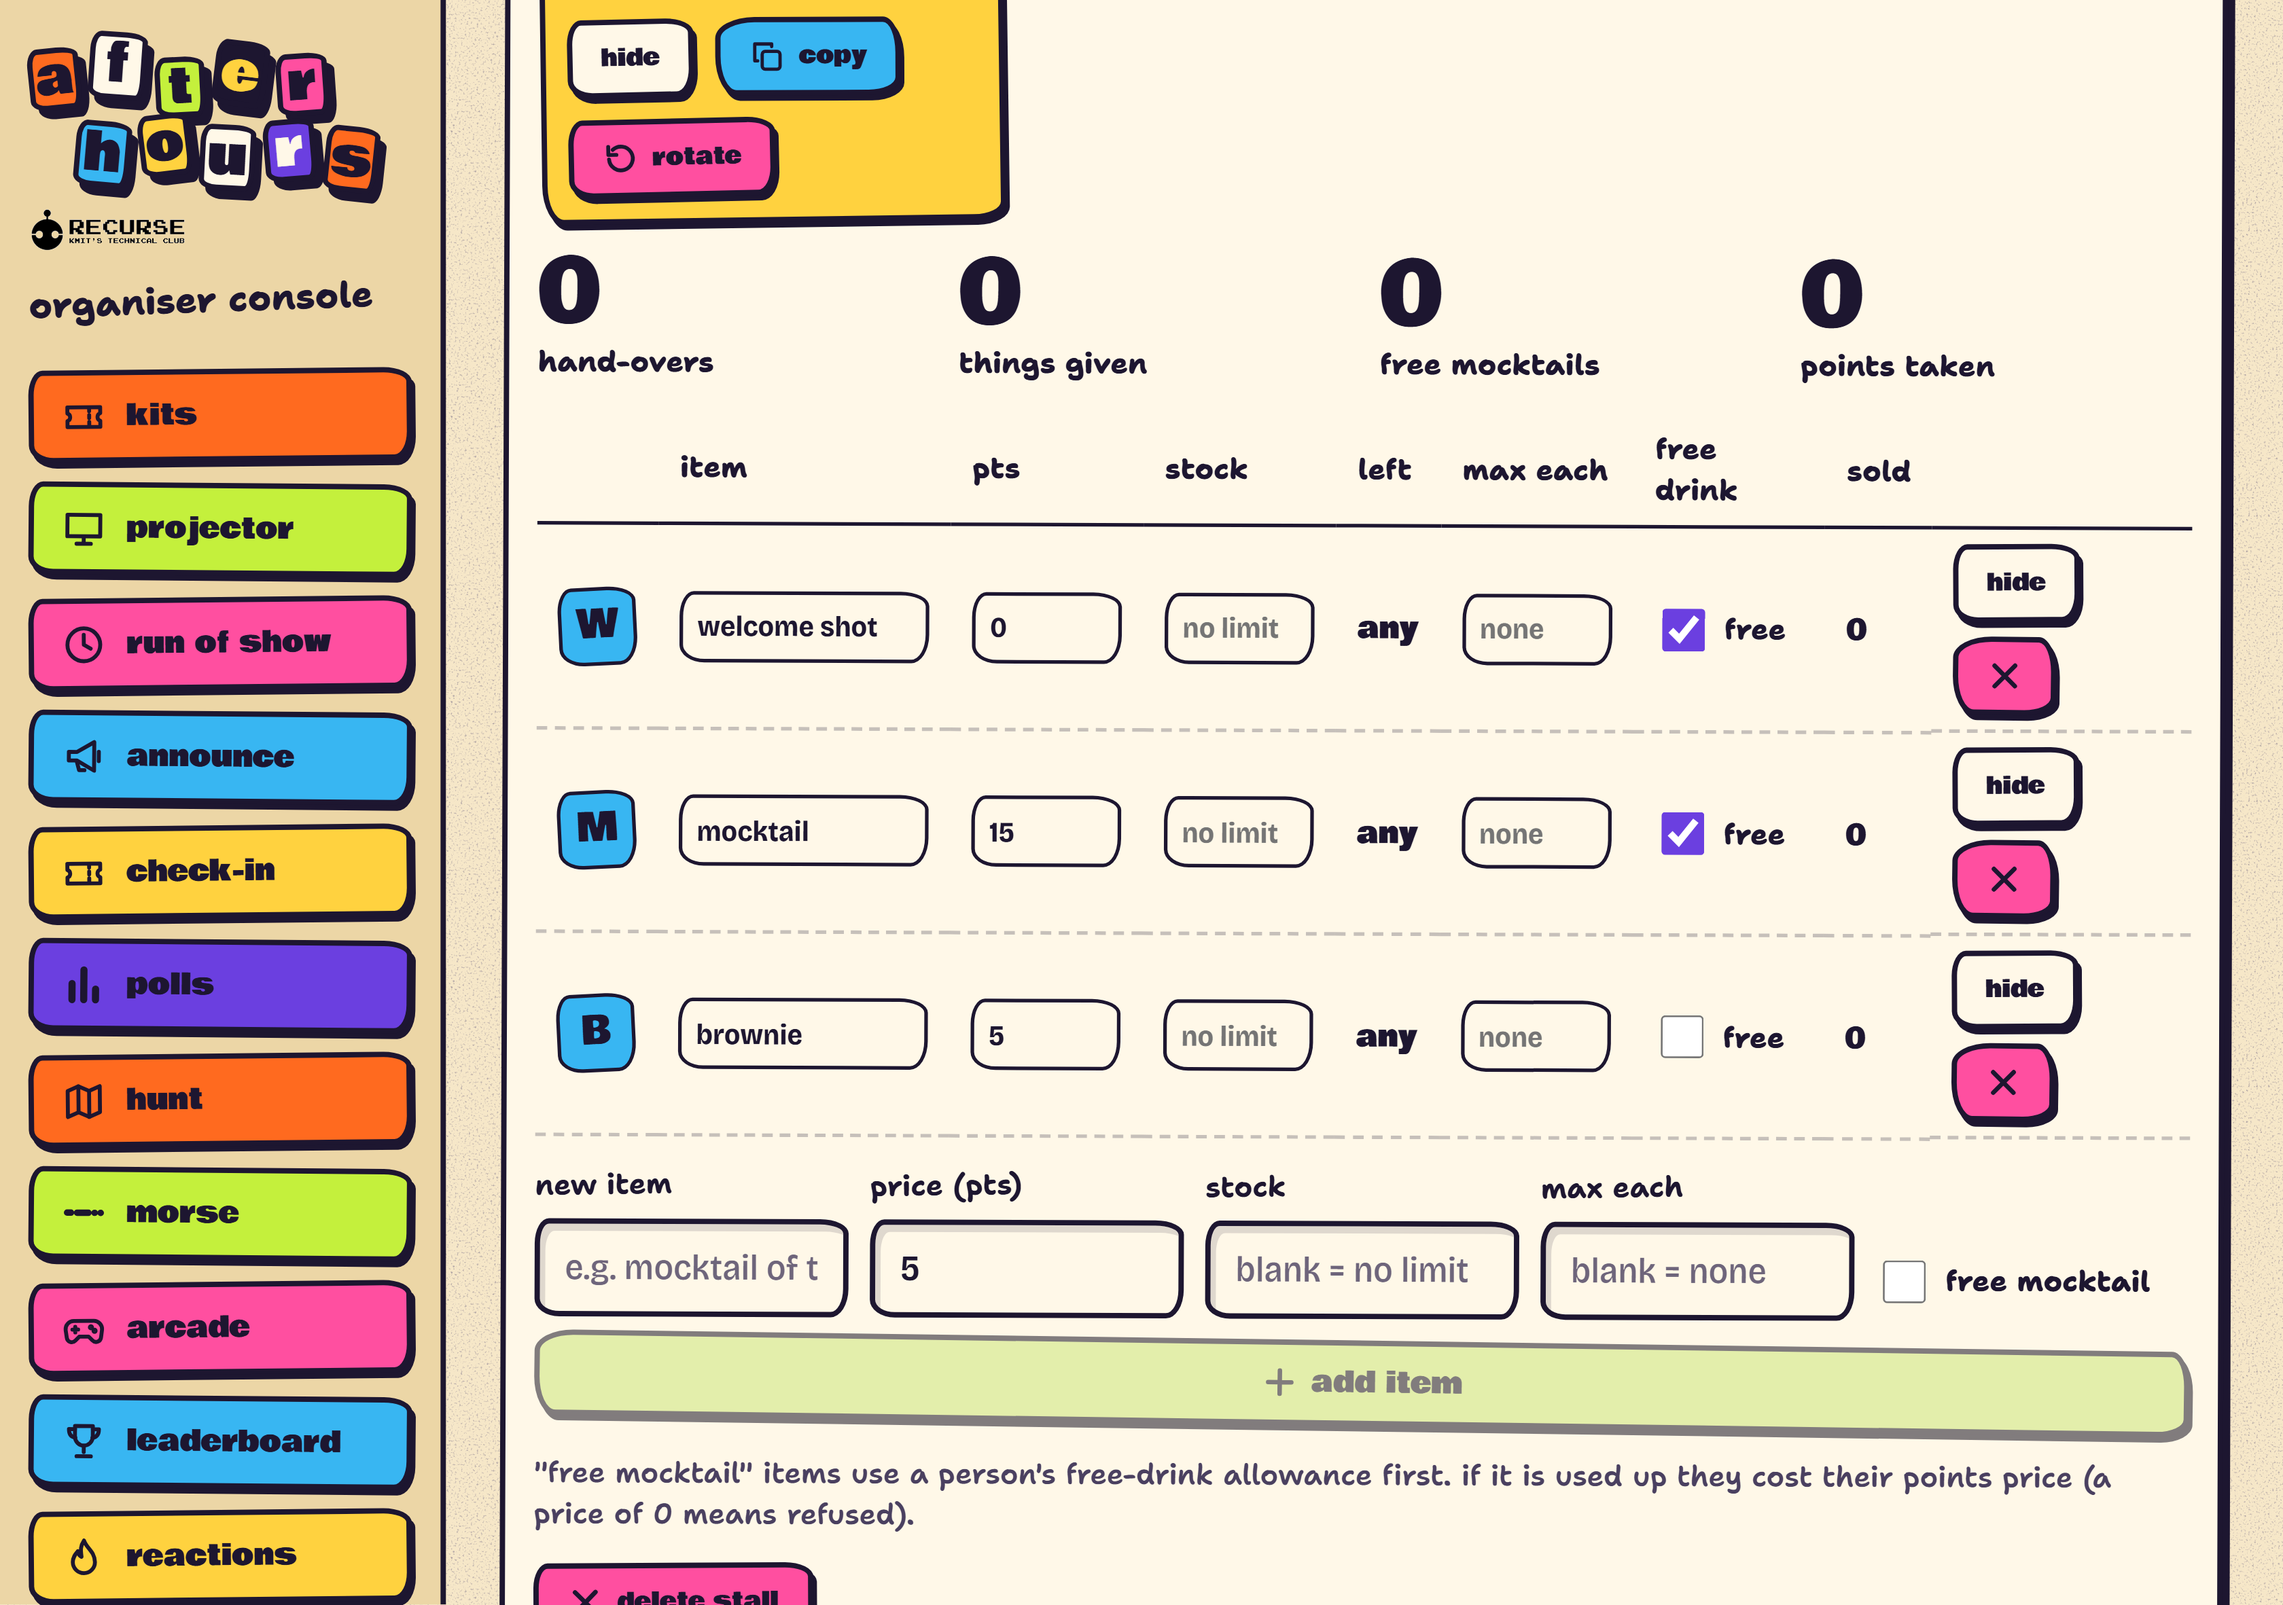
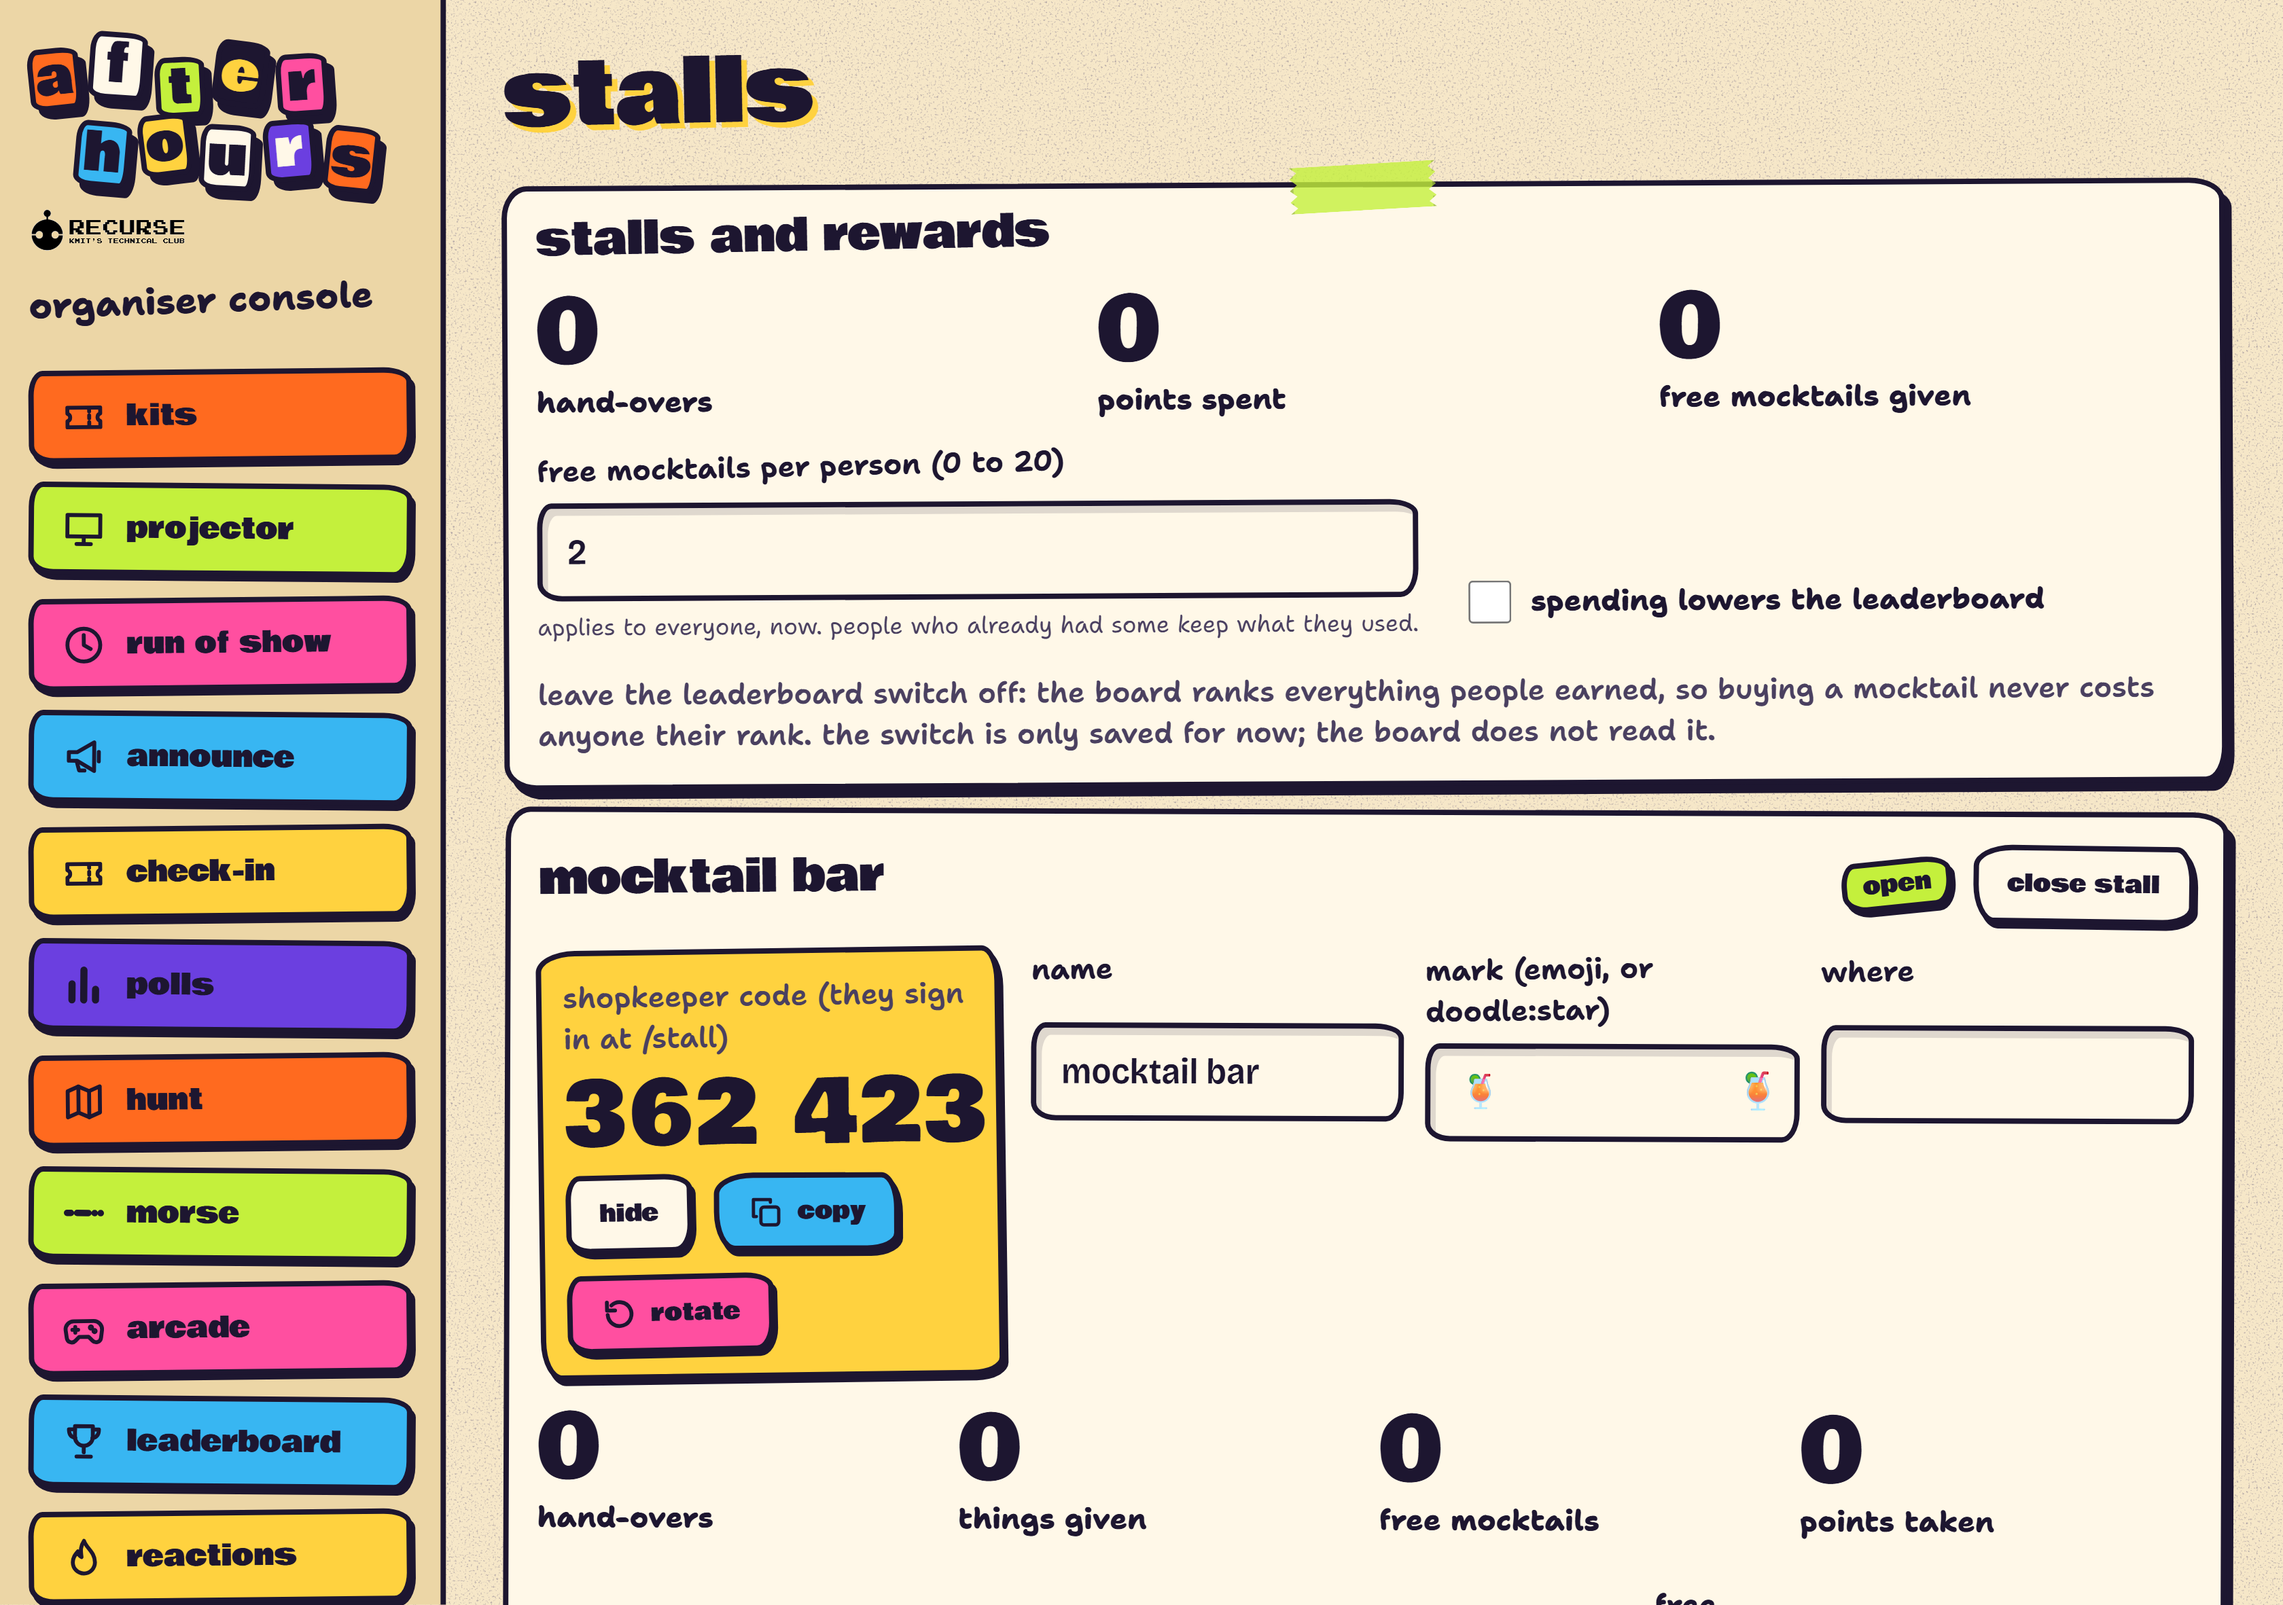
polish(stalls): stall chips wrap, shopkeeper code on one line, sign-in wordmark clear of the card; console screenshot from the top; refreshed stalls screenshots

Changed region(s): [[0.1875, 0.0, 1.0, 1.0], [0.8438, 0.7723, 0.9375, 0.8032], [0.7188, 0.9886, 0.75, 1.0]]

diff --git a/web/src/features/stalls/stalls.module.css b/web/src/features/stalls/stalls.module.css
@@ -30,7 +30,7 @@
 .homeBtns { display: flex; gap: var(--s-2); flex-wrap: wrap; }
 
 /* ---- menu ---- */
-.chips { display: flex; gap: var(--s-2); overflow-x: auto; padding: 4px 2px 8px; scrollbar-width: none; }
+.chips { display: flex; flex-wrap: wrap; gap: var(--s-2); padding: 4px 2px 8px; }
 .chip { display: inline-flex; gap: 6px; align-items: center; flex: none; min-height: var(--tap); padding: 0 var(--s-4); font-family: var(--font-display); font-size: var(--step-0); background: var(--paper-3); border: var(--outline); border-radius: var(--cut-3); box-shadow: var(--shadow-sm); }
 .chipOn { background: var(--sun); transform: rotate(-1.2deg); }
 .items { list-style: none; margin: 0; padding: 0; display: grid; gap: var(--s-3); }
@@ -91,7 +91,7 @@
 .addRow > * { flex: 1 1 150px; }
 .stallHead { display: grid; grid-template-columns: minmax(0, 260px) minmax(0, 1fr); gap: var(--s-4); align-items: start; }
 .codeBox { display: grid; gap: var(--s-2); padding: var(--s-3); background: var(--sun); border: var(--outline); border-radius: var(--cut-2); box-shadow: var(--shadow-sm); transform: rotate(-1deg); }
-.codeBig { font-family: var(--font-display); font-size: var(--step-5); line-height: 1; letter-spacing: 0.04em; }
+.codeBig { font-family: var(--font-display); font-size: var(--step-5); line-height: 1; letter-spacing: 0.04em; white-space: nowrap; }
 .stallFields { display: grid; grid-template-columns: repeat(auto-fit, minmax(180px, 1fr)); gap: var(--s-3); }
 .tableScroll { overflow-x: auto; }
 .settingsRow { display: flex; gap: var(--s-5); align-items: flex-end; flex-wrap: wrap; }

diff --git a/web/src/surfaces/stall/SignIn.tsx b/web/src/surfaces/stall/SignIn.tsx
@@ -48,7 +48,9 @@ export function SignIn({ onDone }: { onDone: (me: ShopMe) => void }) {
 
   return (
     <div className={s.gate}>
-      <Wordmark size={46} />
+      <div className={s.gateMark}>
+        <Wordmark size={46} />
+      </div>
       <div ref={scope} className={s.gateCard}>
         <Card tone="paper" tape tapeColor="lime" tilt={-1}>
           <form onSubmit={(e) => void submit(e)} className={s.gateForm} noValidate>

diff --git a/e2e/stalls.spec.ts b/e2e/stalls.spec.ts
@@ -86,6 +86,8 @@ test.describe.serial('stalls', () => {
     ]);
     code = st.code;
     await page.waitForTimeout(600);
+    await page.evaluate(() => window.scrollTo(0, 0));
+    await page.waitForTimeout(300);
     await page.screenshot({ path: `${SHOT}/stalls-console-1280.png`, fullPage: false });
     await page.getByRole('heading', { name: STALL, exact: true }).scrollIntoViewIfNeeded();
     await page.waitForTimeout(400);

diff --git a/web/src/surfaces/stall/stall.module.css b/web/src/surfaces/stall/stall.module.css
@@ -8,6 +8,7 @@
 
 /* sign-in */
 .gate { min-height: 100dvh; display: grid; align-content: center; justify-items: center; gap: var(--s-4); padding: var(--s-4); }
+.gateMark { padding-bottom: var(--s-5); }
 .gateCard { width: min(100%, 420px); }
 .gateForm { display: grid; gap: var(--s-4); }
 .gateHead { display: flex; gap: var(--s-3); align-items: center; }
